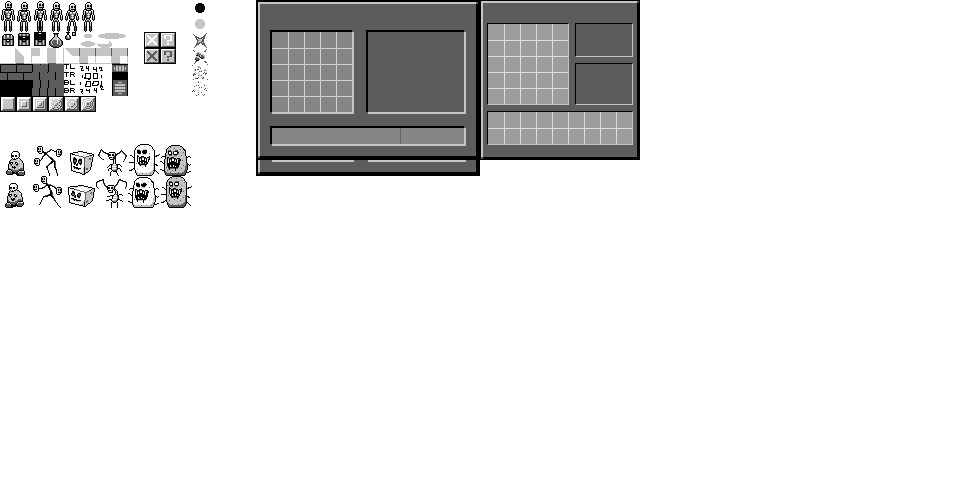
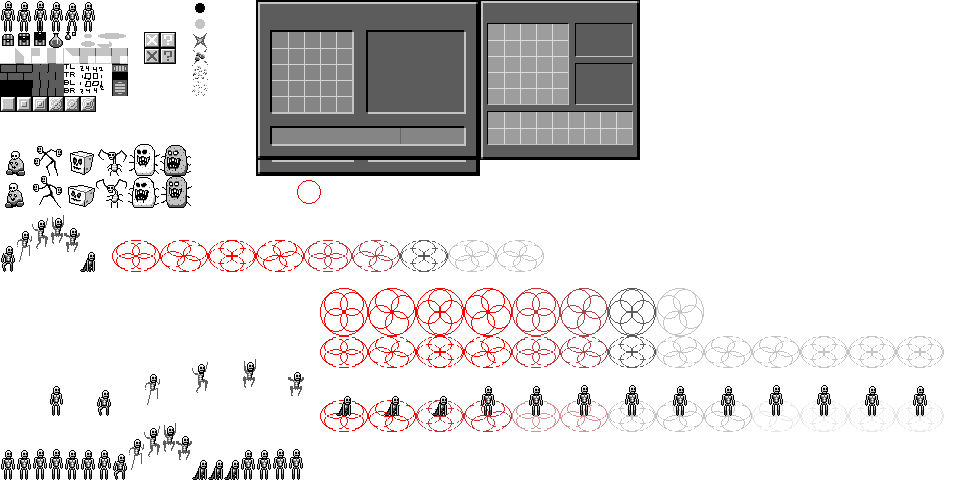
refactored some of the state out of playerentity and started implementing player attacks

diff --git a/src/game/inventory.py b/src/game/inventory.py
@@ -1,6 +1,8 @@
 from enum import Enum
 
 from src.items.item import StatType
+import src.game.spriteref as spriteref
+import src.game.inputs as inputs
 
 
 class ItemGrid:
@@ -90,18 +92,13 @@ class PlayerStatType(Enum):
     DPS = "DPS",
     MOVESPEED = "MOVE_SPEED",
     TICKS_PER_ATTACK = "TICKS_PER_ATTACK"
-
-class PlayerState:
-    def __init__(self, name, inventory):
+    
+class ActorState:
+    def __init__(self, name, level, base_values):
         self._name = name
-        self._inventory = inventory
-        self._level = 0
-        self._base_values = {
-            StatType.ATT: 10,
-            StatType.DEF: 10,
-            StatType.VIT: 10,
-            PlayerStatType.TICKS_PER_ATTACK: 50
-        }
+        self._level = level
+        self._base_values = base_values
+        self.current_hp = self.stat_value(PlayerStatType.HP)
     
     def name(self):
         return self._name
@@ -109,8 +106,14 @@ class PlayerState:
     def level(self):
         return self._level
         
-    def inventory(self):
-        return self._inventory
+    def hp(self):
+        return self.current_hp
+        
+    def set_hp(self, value):
+        self.current_hp = value 
+        
+    def move_speed(self):
+        return self.stat_value(PlayerStatType.MOVESPEED)
         
     def _compute_derived_stat(self, stat_type):
         """
@@ -135,6 +138,38 @@ class PlayerState:
             speed = speed * (1 + att_speed_inc / 100)
             return round(1 / speed)
         
+        elif stat_type is PlayerStatType.MOVESPEED:
+            base = self._base_values[stat_type]
+            return base * (1 + self.stat_value(StatType.MOVEMENT_SPEED))
+        
+    def stat_value(self, stat_type):
+        return 0
+
+
+class PlayerState(ActorState):
+    def __init__(self, name, inventory):
+        self._inventory = inventory
+        
+        ActorState.__init__(self, name, 0, {
+            StatType.ATT: 10,
+            StatType.DEF: 10,
+            StatType.VIT: 10,
+            PlayerStatType.TICKS_PER_ATTACK: 30,
+            PlayerStatType.MOVESPEED: 2
+        })
+        
+        self.current_sprite = spriteref.player_idle_0
+
+        self.attack_tick = 0
+        self.cur_attack_dur = 1
+        
+        self.delay_tick = 0
+        self.is_moving = False
+        self.facing_right = True
+        
+    def inventory(self):
+        return self._inventory
+        
     def stat_value(self, stat_type):
         """
             stat_type: StatType or PlayerStatType
@@ -154,8 +189,64 @@ class PlayerState:
                     
         return value
         
-     
-     
-     
-     
-     
+    def update(self, world, gs, input_state):
+        player_entity = world.get_player()
+        if player_entity is None:
+            return
+            
+        if self.delay_tick > 0:
+            self.delay_tick -= 1
+        else:  
+            if self.attack_tick <= 0 and input_state.is_held(inputs.ATTACK):
+                self.cur_attack_dur = self.stat_value(PlayerStatType.TICKS_PER_ATTACK)
+                self.attack_tick = self.cur_attack_dur
+            
+            elif self.attack_tick > 0:
+                self.attack_tick -= 1
+                if self.attack_tick <= 0:
+                    # TODO deliver attack
+                    self.attack_tick = 0
+                    self.cur_attack_dur = 1
+                    self.delay_tick = 10
+            
+            # you can keep moving during the attack windup    
+            if self.delay_tick <= 0:
+                move_x = int(input_state.is_held(inputs.RIGHT)) - int(input_state.is_held(inputs.LEFT)) 
+                move_y = int(input_state.is_held(inputs.DOWN)) - int(input_state.is_held(inputs.UP)) 
+                
+                self.is_moving = move_x != 0 or move_y != 0
+                
+                if move_x != 0 and move_y != 0:
+                    move_x /= 1.4142 
+                    move_y /= 1.4142   
+                    
+                move_x *= self.move_speed()
+                move_y *= self.move_speed()
+                    
+                player_entity.move(move_x, move_y, world=world, and_search=True)
+                if move_x != 0:
+                    self.facing_right = move_x > 0
+         
+        player_entity.update_images(self.get_sprite(gs), self.facing_right)
+        
+    def attack_progress(self):
+        if self.attack_tick <= 0:
+            return -1
+        else:
+            return min(1, max(0, 1 - self.attack_tick / self.cur_attack_dur))
+    
+    def get_sprite(self, gs):
+        if self.attack_tick > 0:
+            progress = self.attack_progress()
+            idx = int(progress * len(spriteref.player_attacks))
+            return spriteref.player_attacks[idx]
+        elif self.delay_tick > 0:
+            return spriteref.player_squat   
+        elif self.is_moving:
+            return spriteref.player_move_all[gs.anim_tick % len(spriteref.player_move_all)]
+        else:
+            return spriteref.player_idle_all[(gs.anim_tick // 2) % len(spriteref.player_idle_all)] 
+        
+        
+        
+

diff --git a/src/world/entities.py b/src/world/entities.py
@@ -126,17 +126,23 @@ class Entity:
         
     def is_chest(self):
         return False
-        
+
+
+class AttackCircleArt(Entity):
+    def __init__(self, cx, cy, sprites, duration):
+        Entity.__init__(self, cx - 4, cy - 4, 8, 8)
+        self.duration = duration
+        self.sprites = sprites
+    
+    def update(self, world, gs, input_state, render_engine):
+        pass
+            
 
 class Player(Entity):
 
     def __init__(self, x, y):
         Entity.__init__(self, x, y, 24, 12)
-        self._img = img.ImageBundle(spriteref.player_idle_0, x, y, 
-                scale=2, depth=self.get_depth())
-        self.is_moving = False
-        self.facing_right = True
-        self.move_speed = 2
+        self._img = None
         
     def get_shadow_sprite(self):
         return spriteref.medium_shadow    
@@ -145,54 +151,32 @@ class Player(Entity):
         """returns: unrounded center coordinates"""
         return (self._x + self.w(), self._y + self.h())
                
-    def update_images(self, anim_tick):
-        if self.is_moving:
-            model = spriteref.player_move_all[anim_tick % len(spriteref.player_move_all)]
-        else:
-            model = spriteref.player_idle_all[(anim_tick // 2) % len(spriteref.player_idle_all)]
+    def update_images(self, sprite, facing_right):        
+        if self._img is None:
+            self._img = img.ImageBundle(None, 0, 0, scale=2, depth=self.get_depth())
+
+        x = self.x() - (sprite.width() * self._img.scale() - self.w()) // 2
+        y = self.y() - (sprite.height() * self._img.scale() - self.h())        
         
-        x = self.x() - (model.width() * self._img.scale() - self.w()) // 2
-        y = self.y() - (model.height() * self._img.scale() - self.h())
         depth = self.get_depth()
-        xflip = not self.facing_right
-        self._img = self._img.update(new_model=model, new_x=x, new_y=y, 
+        xflip = not facing_right
+        self._img = self._img.update(new_model=sprite, new_x=x, new_y=y, 
                 new_depth=depth, new_xflip=xflip)
         
-        super().update_images(anim_tick) # get the shadow
-  
+        super().update_images(0) # get the shadow
             
     def update(self, world, gs, input_state, render_engine):
-        move_x = int(input_state.is_held(inputs.RIGHT)) - int(input_state.is_held(inputs.LEFT)) 
-        move_y = int(input_state.is_held(inputs.DOWN)) - int(input_state.is_held(inputs.UP)) 
-        
-        self.is_moving = move_x != 0 or move_y != 0
-        
-        if move_x != 0 and move_y != 0:
-            move_x /= 1.4142 
-            move_y /= 1.4142   
-        
-        move_x *= self.move_speed
-        move_y *= self.move_speed
-        
-        self.move(move_x, move_y, world=world, and_search=True)
-        
-        if move_x != 0:
-            self.facing_right = move_x > 0
-        
-        self.update_images(gs.anim_tick)
         render_engine.update(self._img, layer_id=gs.ENTITY_LAYER) 
         render_engine.update(self._shadow, layer_id=gs.SHADOW_LAYER) 
         
-        if input_state.was_pressed(inputs.INTERACT):
-            print("player_pos={}, ({}, {})".format(self.rect, self._x, self._y))
-        
     def is_player(self):
         return True
-        
-
+ 
+ 
 class Enemy(Entity):
-    def __init__(self, x, y, sprites):
+    def __init__(self, x, y, state, sprites):
         Entity.__init__(self, x, y, 32, 32)
+        self.state = state
         self._img = img.ImageBundle(sprites[0], x, y, scale=2, depth=self.get_depth())
         self.facing_left = True
         self.sprites = sprites

diff --git a/cubelike.py b/cubelike.py
@@ -5,6 +5,7 @@ from src.game.globalstate import GlobalState
 from src.game.inputs import InputState
 from src.game.ui import UiState
 from src.game.inventory import PlayerState, InventoryState
+from src.game.enemies import EnemyFactory
 
 from src.world.worldstate import World
 from src.world.entities import Player, Enemy, ChestEntity
@@ -35,9 +36,8 @@ def build_me_a_world(width, height, render_eng, gs):
                 else:
                     w.set_geo(x, y, World.FLOOR)
                     if random.random() < 0.05:
-                        i = int(random.random() * len(spriteref.enemies_all))
-                        e = Enemy(0, 0, spriteref.enemies_all[i])
-                        w.add(e, gridcell=(x, y))
+                        enemy = EnemyFactory.gen_enemy(5)
+                        w.add(enemy, gridcell=(x, y))
                     elif random.random() < 0.05:
                         w.add(ChestEntity(0, 0), gridcell=(x, y))
     
@@ -136,6 +136,8 @@ def run():
                 
         if input_state.was_pressed(pygame.K_RETURN):
             world = build_me_a_world(7, 7, render_eng, gs)
+        
+        gs.player_state().update(world, gs, input_state)
         
         world.update_all(gs, input_state, render_eng)
         

diff --git a/src/game/enemies.py b/src/game/enemies.py
@@ -1,0 +1,39 @@
+import random
+import src.game.spriteref as spriteref
+from src.items.item import StatType
+from src.world.entities import Enemy
+from src.game.inventory import ActorState
+
+
+class EnemyState(ActorState):
+    def __init__(self, name, level, stats):
+        """
+            stats: map StatType -> value
+        """
+        self.stats = stats
+        ActorState.__init__(self, name, 0, stats)
+        
+    def stat_value(self, stat_type):
+        derived = self._compute_derived_stat(stat_type)
+        if derived is not None:
+            return derived
+     
+        elif stat_type in self.stats:
+            return self.stats[stat_type]
+        else:
+            return 0
+     
+     
+class EnemyFactory:
+
+    def gen_enemy(level):
+        i = int(random.random() * len(spriteref.enemies_all))
+        stats = {
+            StatType.ATT: 10,
+            StatType.DEF: 10,
+            StatType.VIT: 10
+        }
+        state = EnemyState("enem1", level, stats)
+        
+        return Enemy(0, 0, state, spriteref.enemies_all[i])
+

diff --git a/src/game/spriteref.py b/src/game/spriteref.py
@@ -22,6 +22,11 @@ player_move_2 = make(64, 0, 16, 32)
 player_move_3 = make(80, 0, 16, 32)
 player_move_all = [player_move_0, player_move_1, player_move_2, player_move_3]
 
+player_attacks = [make(i*16, 208, 16, 64) for i in range(0, 5)]
+player_squat = make(80, 240, 16, 32)
+
+att_circles = [make(112 + 48*i, 240, 48, 32) for i in range(0, 9)]
+
 chest_closed = make(0, 32, 16, 16)
 chest_open_0 = make(16, 32, 16, 16)
 chest_open_1 = make(32, 32, 16, 16)

diff --git a/src/game/inputs.py b/src/game/inputs.py
@@ -6,7 +6,7 @@ LEFT = [pygame.K_a, pygame.K_LEFT]
 RIGHT = [pygame.K_d, pygame.K_RIGHT]
 DOWN = [pygame.K_s, pygame.K_DOWN]
 CROUCH = DOWN + [pygame.K_LSHIFT, pygame.K_RSHIFT]
-SHOOT = [pygame.K_j, pygame.K_x]
+ATTACK = [pygame.K_j, pygame.K_x]
 INVENTORY = [pygame.K_r]
 INTERACT = [pygame.K_k, pygame.K_e]
 EXIT = [pygame.K_ESCAPE]
